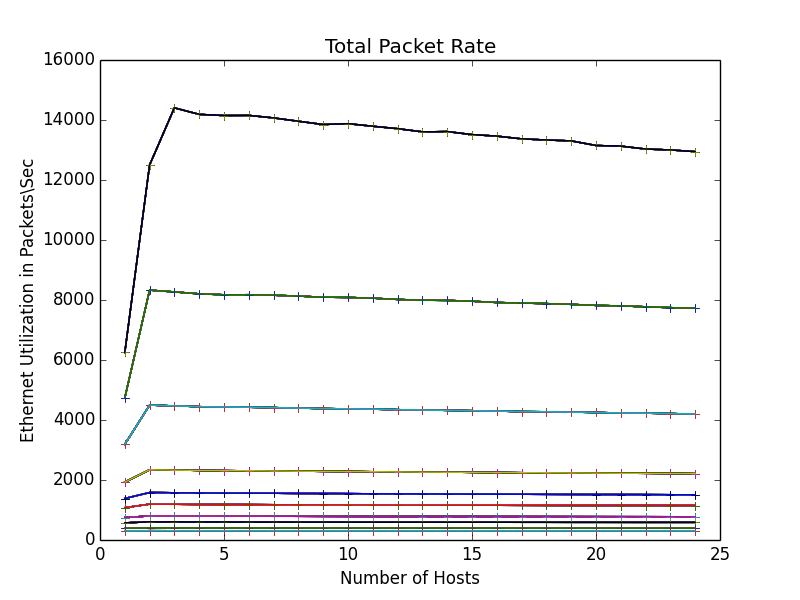
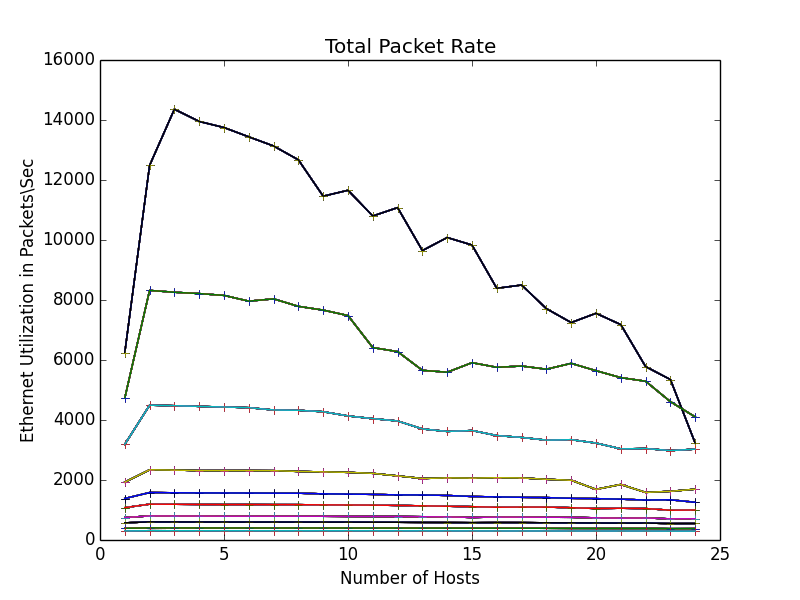
constant changed in transmission delay

diff --git a/Network.java b/Network.java
@@ -220,7 +220,7 @@ public class Network {
 	    	total_packets += node.stats.successfulPackets;
 		}
 		double bitTimePerPacket = currentTime * getMachines().size() / total_packets;
-		double transmissionDelay = bitTimePerPacket / 100000;
+		double transmissionDelay = bitTimePerPacket / 10000;
 		return transmissionDelay;
     }
 
@@ -241,7 +241,7 @@ public class Network {
 
 		write3_3.println("Hosts,Bytes,PacketsPerSecond");
 		write3_5.println("Hosts,Bytes,PacketsPerSecond");
-		write3_7.println("Hosts,Bytes,PacketsPerSecond");				
+		write3_7.println("Hosts,Bytes,PacketsPerSecond");
 
 		for (int nodes = 1; nodes <= 24; nodes++){
 
